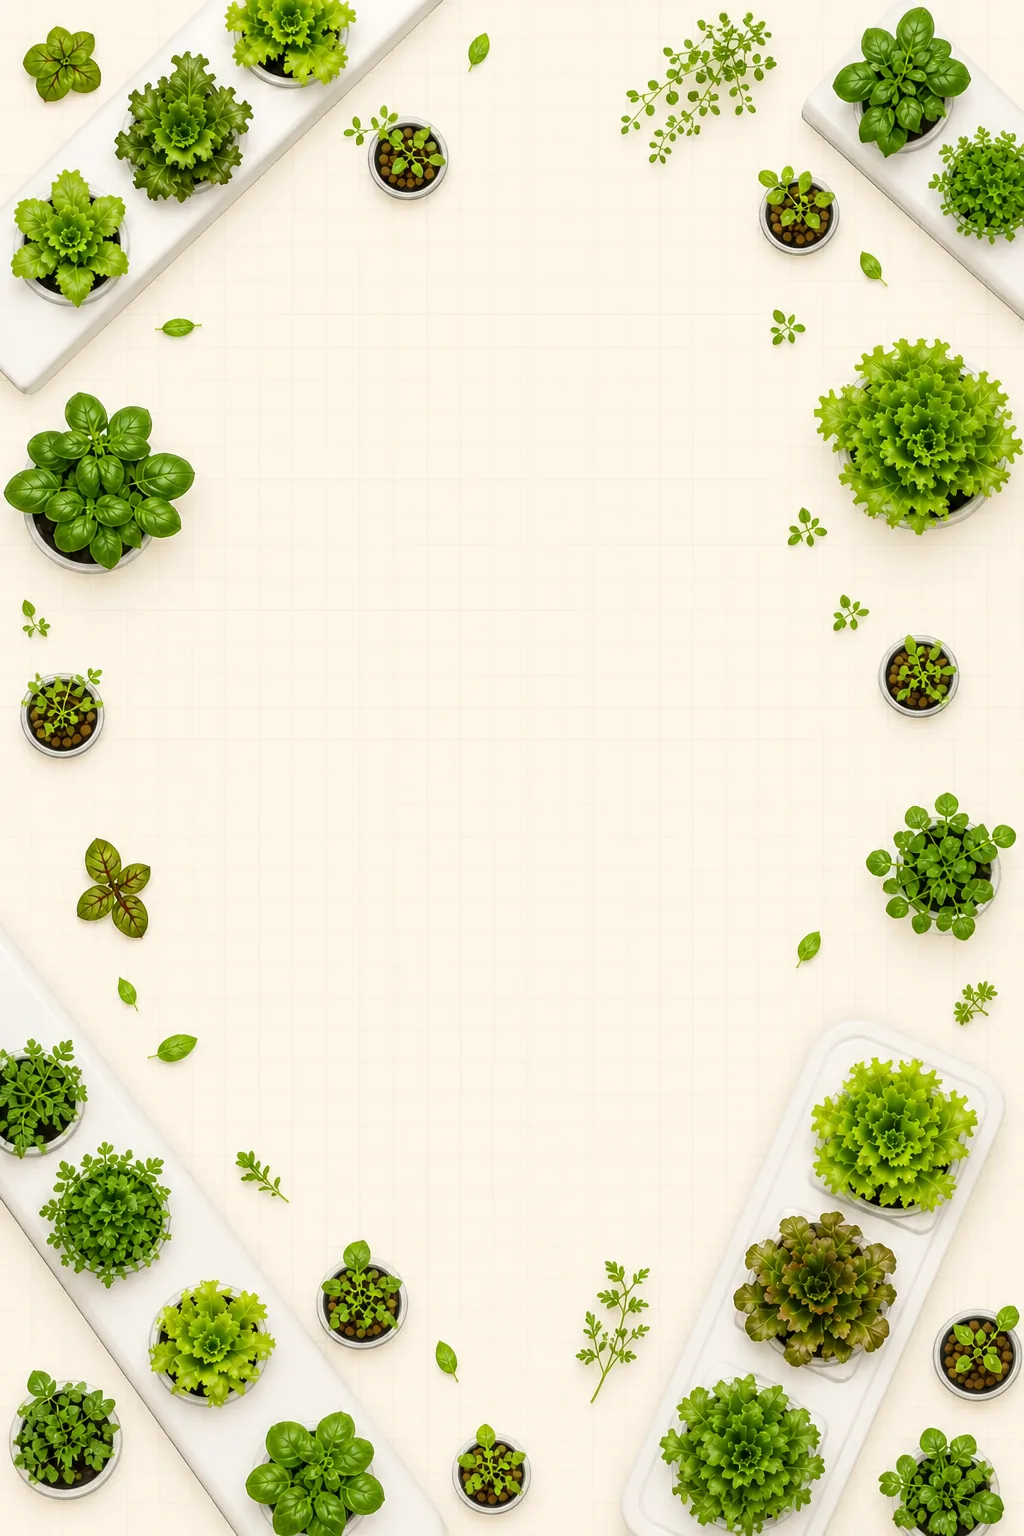
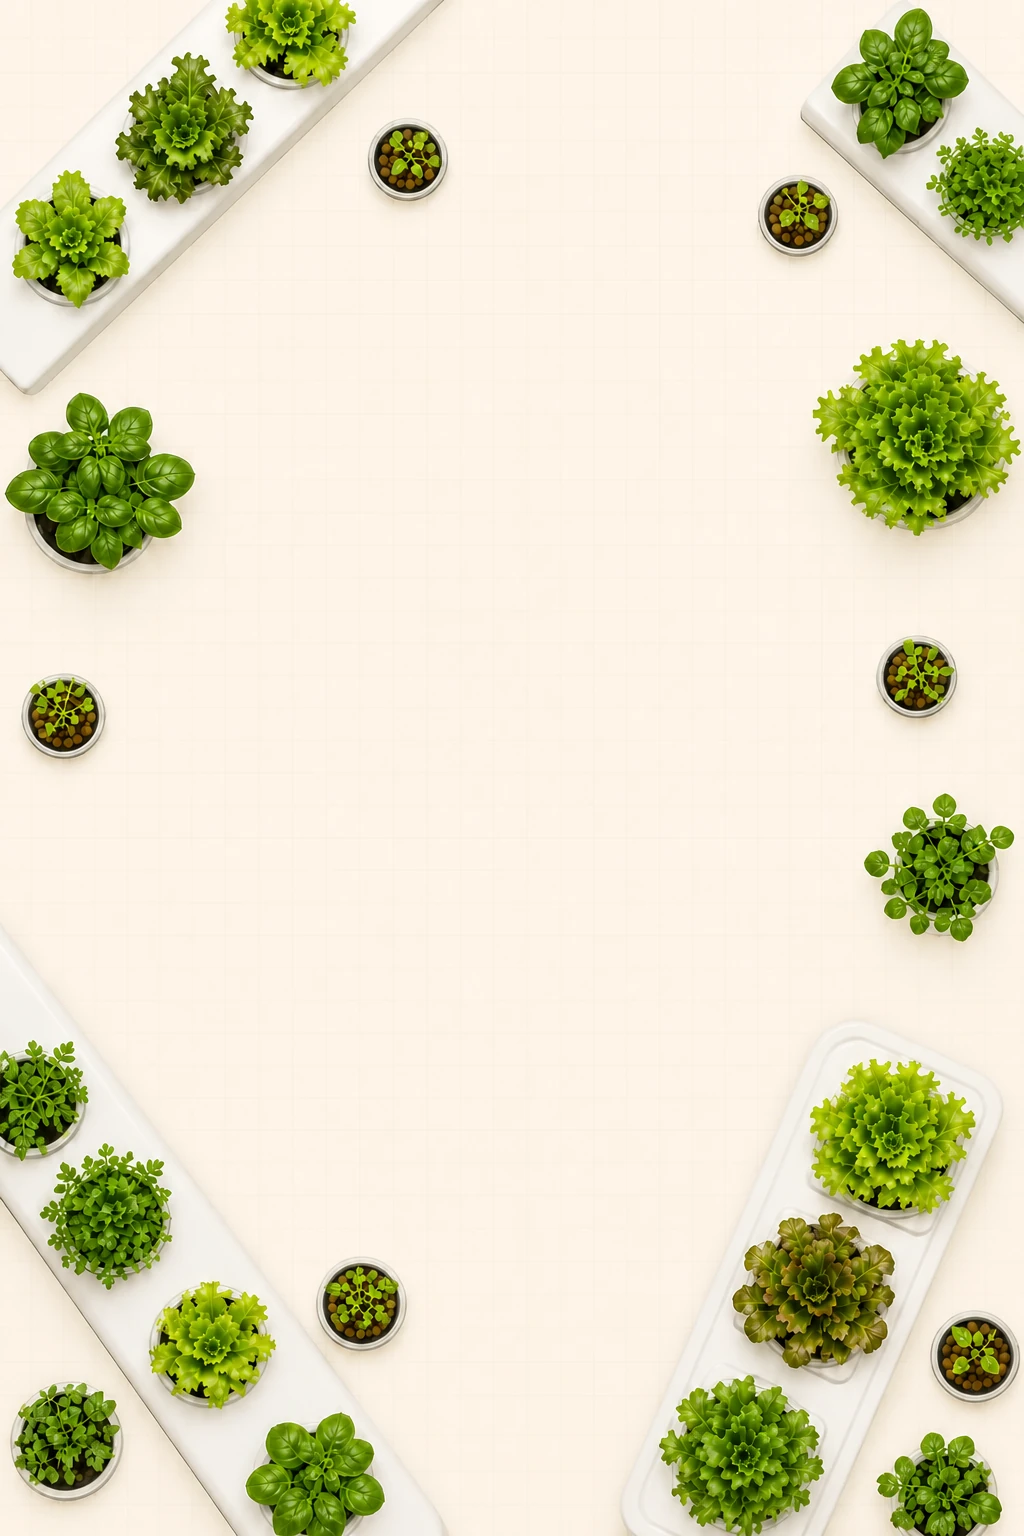
Refine quiz backgrounds and shopping lists

diff --git a/quiz.html b/quiz.html
@@ -108,6 +108,14 @@ body{font-family:system-ui,sans-serif;background:#f5f2ea;color:#1a2a16;min-heigh
 .shop-item-content{flex:1}
 .shop-item.checked .shop-item-content{text-decoration:line-through;opacity:0.5}
 .shop-item a{color:#1e3a22;text-decoration:underline}
+.shop-item-need{font-size:12px;font-weight:700;color:#1e3a22;line-height:1.4}
+.shop-item-suggestion{font-size:11px;color:#777;line-height:1.45;margin-top:2px}
+.shop-item-suggestion-label{color:#999}
+.shop-sections{display:grid;gap:10px;margin-top:8px}
+.shop-section{background:rgba(255,255,255,.72);border:1px solid #e4ddcd;border-radius:9px;padding:10px 12px}
+.shop-section-title{font-size:13px;font-weight:800;color:#1e3a22;margin-bottom:1px}
+.shop-section-note{font-size:10px;color:#888;line-height:1.45;margin-bottom:5px}
+.shop-section .shop-list{margin-top:0}
 .shop-total{display:flex;justify-content:space-between;gap:16px;margin-top:10px;padding-top:10px;border-top:2px solid #ddd8cc;font-size:13px;font-weight:800;color:#1e3a22}
 .shop-total-note{font-size:10px;color:#888;margin-top:4px;line-height:1.4}
 .primary-why{font-size:12px;color:#888;font-style:italic;line-height:1.6;padding-top:10px;border-top:1px solid #edf2e8}
@@ -145,14 +153,14 @@ body{font-family:system-ui,sans-serif;background:#f5f2ea;color:#1a2a16;min-heigh
   .result-screen{padding:20px 12px}
 }
 .quiz-page-main{display:flex;flex-direction:column;background:#f7f4ee;position:relative;overflow:hidden;isolation:isolate}
-.quiz-growth-bg{position:absolute;inset:0;z-index:0;pointer-events:none;background:linear-gradient(rgba(247,244,238,.14),rgba(247,244,238,.14)),url('images/backgrounds/quiz-growth/stage-1.webp') center/cover no-repeat;opacity:1;transition:opacity .28s ease}
+.quiz-growth-bg{position:absolute;inset:0;z-index:0;pointer-events:none;background:linear-gradient(rgba(247,244,238,.14),rgba(247,244,238,.14)),url('images/backgrounds/quiz-growth/stage-1.webp?v=clean-20260806') center/cover no-repeat;opacity:1;transition:opacity .28s ease}
 .screen,.result-screen{position:relative;z-index:1}
 @media(prefers-reduced-motion:reduce){.quiz-growth-bg{transition:none}}
 .nav-quiz-link[aria-current="page"]{background:var(--green-ghost);color:var(--green-deep)}
 @media(max-width:760px){
   .quiz-page-main{min-height:auto}
   .quiz-growth-bg{
-    background-image:linear-gradient(rgba(247,244,238,.14),rgba(247,244,238,.14)),url('images/backgrounds/quiz-growth/mobile/stage-1.webp');
+    background-image:linear-gradient(rgba(247,244,238,.14),rgba(247,244,238,.14)),url('images/backgrounds/quiz-growth/mobile/stage-1.webp?v=clean-20260806');
     background-size:cover;
     background-position:center top;
     background-repeat:no-repeat;
@@ -264,6 +272,8 @@ body{background:#f7f7f5}
 .btn-row{display:flex;align-items:center;gap:8px}
 @media(min-width:1025px){
   .screen{padding-top:calc(56px + 2cm)}
+  .screen > .q-sub{min-height:48px}
+  #screen-6 > .q-sub,#screen-7 > .q-sub{margin-bottom:63px}
 }
 @media(max-width:700px){
   .quiz-page-main{min-height:calc(100dvh - 148px);margin-top:0}
@@ -695,7 +705,7 @@ const RECS = {
       tagline: 'Recirculating deep water culture, serious volume',
       price: '$249 - $330',
       grows: 'Herbs, greens, chillies, cucumber, cherry tomatoes',
-      shop: '<a href="https://www.vevor.com.au/dwc-hydroponic-system-c_10208/vevor-rdwc-hydroponics-system-recirculating-deep-water-culture-4-buckets-20l-p_010917500216">VEVOR RDWC 4-bucket system</a> ($249) - <a href="https://www.amazon.com.au/Hydroponic-Nutrients-Plant-Grow-Bloom/dp/B0CX4MHXDM/">Nutrients A+B</a> ($34.50) - <a href="https://franshydroponics.com.au/products/professors-hydro-clay-balls-10l-bag?variant=44760106696904">Clay pebbles</a> ($22) - <a href="https://bruceshark.com/en-au/products/3-in-1-digital-ph-tds-temp-waterproof-water-quality-meter-tester-test-pen-tool?variant=42881541275802">pH/TDS tester</a> ($36.55) - <a href="https://growkings.com.au/products/flairform-ph-up-down-calibration-kit-250ml?variant=42321736892469">pH Up/Down</a> ($36.95) - <a href="https://www.woolworths.com.au/shop/productdetails/1127763065">Rockwool cubes - Woolworths</a> ($49.47) - <a href="https://growkings.com.au/products/hydro-bitz-measuring-syringe-20ml?variant=43252743962677">Syringe</a> ($6.20) - <a href="https://www.theseedcollection.com.au/vegetable">Seeds</a> - <a href="https://spiderfarmer.com.au/products/se3000-full-spectrum-led-grow-light/">LED grow light SE3000</a> ($419.99 [LIGHT]) - <a href="https://www.bigw.com.au/product/oznala-digital-timer-switch-socket-electric-programmable-power-240v-au-plug-clock/p/9901205333">Timer</a> ($19.99)',
+      shop: '<a href="https://www.vevor.com.au/dwc-hydroponic-system-c_10208/vevor-rdwc-hydroponics-system-recirculating-deep-water-culture-4-buckets-20l-p_010917500216">VEVOR RDWC 4-bucket system</a> ($249) - <a href="https://www.amazon.com.au/Hydroponic-Nutrients-Plant-Grow-Bloom/dp/B0CX4MHXDM/">Nutrients A+B</a> ($34.50) - <a href="https://franshydroponics.com.au/products/professors-hydro-clay-balls-10l-bag?variant=44760106696904">Clay pebbles</a> ($22) - <a href="https://bruceshark.com/en-au/products/3-in-1-digital-ph-tds-temp-waterproof-water-quality-meter-tester-test-pen-tool?variant=42881541275802">pH/TDS tester</a> ($36.55) - <a href="https://growkings.com.au/products/flairform-ph-up-down-calibration-kit-250ml?variant=42321736892469">pH Up/Down</a> ($36.95) - <a href="https://www.woolworths.com.au/shop/productdetails/1127763065">Rockwool cubes from Woolworths</a> ($49.47) - <a href="https://growkings.com.au/products/hydro-bitz-measuring-syringe-20ml?variant=43252743962677">Syringe</a> ($6.20 optional) - <a href="https://www.theseedcollection.com.au/vegetable">Seeds</a> - <a href="https://spiderfarmer.com.au/products/se3000-full-spectrum-led-grow-light/">LED grow light SE3000</a> ($419.99 [LIGHT]) - <a href="https://www.bigw.com.au/product/oznala-digital-timer-switch-socket-electric-programmable-power-240v-au-plug-clock/p/9901205333">Timer</a> ($19.99 [LIGHT])',
       why: 'Four recirculating buckets sharing one reservoir - the setup serious home growers use. Multiple plants, maximum output, and shared nutrients mean less work per plant.',
     },
   },
@@ -926,22 +936,22 @@ function checkEmail() {
 }
 
 const GROWTH_STAGE_IMAGES = [
-  'images/backgrounds/quiz-growth/stage-1.webp',
-  'images/backgrounds/quiz-growth/stage-2.webp',
-  'images/backgrounds/quiz-growth/stage-3.webp',
-  'images/backgrounds/quiz-growth/stage-4.webp',
-  'images/backgrounds/quiz-growth/stage-5.webp',
-  'images/backgrounds/quiz-growth/stage-6.webp',
-  'images/backgrounds/quiz-growth/stage-7.webp'
+  'images/backgrounds/quiz-growth/stage-1.webp?v=clean-20260806',
+  'images/backgrounds/quiz-growth/stage-2.webp?v=clean-20260806',
+  'images/backgrounds/quiz-growth/stage-3.webp?v=clean-20260806',
+  'images/backgrounds/quiz-growth/stage-4.webp?v=clean-20260806',
+  'images/backgrounds/quiz-growth/stage-5.webp?v=clean-20260806',
+  'images/backgrounds/quiz-growth/stage-6.webp?v=clean-20260806',
+  'images/backgrounds/quiz-growth/stage-7.webp?v=clean-20260806'
 ];
 const MOBILE_GROWTH_STAGE_IMAGES = [
-  'images/backgrounds/quiz-growth/mobile/stage-1.webp',
-  'images/backgrounds/quiz-growth/mobile/stage-2.webp',
-  'images/backgrounds/quiz-growth/mobile/stage-3.webp',
-  'images/backgrounds/quiz-growth/mobile/stage-4.webp',
-  'images/backgrounds/quiz-growth/mobile/stage-5.webp',
-  'images/backgrounds/quiz-growth/mobile/stage-6.webp',
-  'images/backgrounds/quiz-growth/mobile/stage-7.webp'
+  'images/backgrounds/quiz-growth/mobile/stage-1.webp?v=clean-20260806',
+  'images/backgrounds/quiz-growth/mobile/stage-2.webp?v=clean-20260806',
+  'images/backgrounds/quiz-growth/mobile/stage-3.webp?v=clean-20260806',
+  'images/backgrounds/quiz-growth/mobile/stage-4.webp?v=clean-20260806',
+  'images/backgrounds/quiz-growth/mobile/stage-5.webp?v=clean-20260806',
+  'images/backgrounds/quiz-growth/mobile/stage-6.webp?v=clean-20260806',
+  'images/backgrounds/quiz-growth/mobile/stage-7.webp?v=clean-20260806'
 ];
 const mobileGrowthQuery = window.matchMedia('(max-width:760px)');
 let growthStageTimer;
@@ -1173,7 +1183,13 @@ function showResult() {
 }
 
 function splitShopItems(shop) {
-  const raw = shop.split(' - ');
+  const protectedSeparator = '\uE000';
+  const protectedShop = shop.replace(/<a\b[^>]*>[\s\S]*?<\/a>/gi, function(link) {
+    return link.split(' - ').join(protectedSeparator);
+  });
+  const raw = protectedShop.split(' - ').map(function(item) {
+    return item.split(protectedSeparator).join(' - ');
+  });
   const out = []; let buf = '';
   for (let k = 0; k < raw.length; k++) {
     buf = buf ? buf + ' - ' + raw[k] : raw[k];
@@ -1197,6 +1213,66 @@ function shopItemState(item) {
 
 function cleanShopItem(item) {
   return item.replace(/\s*\[LIGHT\]/, needsGrowLight() ? '' : ' (only needed indoors)');
+}
+
+function getShopItemNeedLabel(item, index) {
+  if (/Heirloom Basin/i.test(item)) return 'Growing basins';
+  if (/Growing trays/i.test(item)) return 'Growing trays';
+  if (/Reservoir container/i.test(item)) return 'Water reservoir';
+  if (index === 0 || /^\s*(?:Outdoor|Indoor):/i.test(item)) return 'Grow system';
+  if (/LED grow lights?/i.test(item)) return 'Grow light';
+  if (/Powerboard/i.test(item)) return 'Powerboard';
+  if (/Timer/i.test(item)) return /\[LIGHT\]/.test(item) ? 'Light timer' : 'Timer';
+  if (/Nutrients?/i.test(item)) return 'Hydroponic nutrients';
+  if (/pH Up\/Down/i.test(item)) return 'pH adjustment solution';
+  if (/(?:pH|TDS|EC).*?(?:tester|test kit)/i.test(item)) return 'Water testing meter';
+  if (/Syringe/i.test(item)) return 'Measuring syringe';
+  if (/Easy plug|Rockwool/i.test(item)) return 'Seed-starting plugs';
+  if (/Clay pebbles|Sponge|Coco coir|growing medium/i.test(item)) return 'Growing medium';
+  if (/Seeds?/i.test(item)) return 'Seeds';
+  if (/Spray bottle/i.test(item)) return 'Spray bottle';
+  if (/Trimmers?/i.test(item)) return 'Harvesting scissors';
+  return 'Growing supplies';
+}
+
+function renderShopListItem(item, index, needLabel) {
+  const linkedItem = cleanShopItem(item).replace(/<a /g, '<a target="_blank" rel="noopener noreferrer" ');
+  const itemContent = needLabel
+    ? '<div class="shop-item-need">' + needLabel + '</div><div class="shop-item-suggestion"><span class="shop-item-suggestion-label">Suggested product:</span> ' + linkedItem + '</div>'
+    : linkedItem;
+  return '<li class="shop-item"><input type="checkbox" aria-label="Mark ' + (needLabel || 'shopping item ' + (index + 1)) + ' complete" onchange="this.parentElement.classList.toggle(\'checked\', this.checked)"><div class="shop-item-content">' + itemContent + '</div></li>';
+}
+
+function classifyShopItem(item, index) {
+  if (/optional/i.test(item) || /Trimmers?/i.test(item)) return 'optional';
+  if (/\[LIGHT\]/.test(item) || /LED grow lights?|Powerboard/i.test(item)) return 'indoors';
+  if (index === 0 || /^\s*(?:Outdoor|Indoor):/i.test(item) || /Heirloom Basin|Growing trays|Reservoir container/i.test(item)) return 'system';
+  if (/Seeds?|Easy plug|Clay pebbles|Rockwool|Sponge|Coco coir|Spray bottle/i.test(item)) return 'start';
+  return 'health';
+}
+
+function buildShoppingSections(shopItems, needLabels) {
+  const sections = [
+    { key: 'system', title: 'Your grow system', note: 'The main setup everything else supports.', items: [] },
+    { key: 'start', title: 'Everything needed to start growing', note: 'The planting supplies that hold your seeds and support the roots.', items: [] },
+    { key: 'health', title: 'Keep your plants healthy', note: 'Use these to feed the plants and keep the water balanced.', items: [] },
+    { key: 'indoors', title: 'Only needed indoors', note: 'Skip these when your setup receives enough natural sunlight.', items: [] },
+    { key: 'optional', title: 'Optional extras', note: 'Helpful for convenience, but not required to begin.', items: [] }
+  ];
+
+  shopItems.forEach(function(item, index) {
+    const key = classifyShopItem(item, index);
+    sections.find(function(section) { return section.key === key; }).items.push({ item: item, index: index });
+  });
+
+  return '<div class="shop-sections">' + sections.filter(function(section) {
+    return section.items.length > 0;
+  }).map(function(section) {
+    return '<section class="shop-section"><div class="shop-section-title">' + section.title + '</div>' +
+      '<div class="shop-section-note">' + section.note + '</div><ul class="shop-list">' +
+      section.items.map(function(entry) { return renderShopListItem(entry.item, entry.index, needLabels && needLabels[entry.index]); }).join('') +
+      '</ul></section>';
+  }).join('') + '</div>';
 }
 
 function getShoppingTotal(rec) {
@@ -1248,13 +1324,10 @@ function renderRecommendation(sys, size, flags) {
     notIdealEl.style.display = 'none';
   }
 
-  const shopItems = splitShopItems(rec.shop).map(cleanShopItem);
-  const shopHTML = '<strong>Shopping list:</strong><ul class="shop-list">' +
-    shopItems.map(function(item, index) {
-      const linkedItem = item.replace(/<a /g, '<a target="_blank" rel="noopener noreferrer" ');
-      return '<li class="shop-item"><input type="checkbox" aria-label="Mark shopping item ' + (index + 1) + ' complete" onchange="this.parentElement.classList.toggle(\'checked\', this.checked)"><div class="shop-item-content">' + linkedItem + '</div></li>';
-    }).join('') +
-    '</ul>' +
+  const shopItems = splitShopItems(rec.shop);
+  const needLabels = shopItems.map(getShopItemNeedLabel);
+  const shoppingListHTML = buildShoppingSections(shopItems, needLabels);
+  const shopHTML = '<strong>Shopping list:</strong>' + shoppingListHTML +
     '<div class="shop-total"><span>Estimated total (priced essentials)</span><span>' + getShoppingTotal(rec) + '</span></div>' +
     '<div class="shop-total-note">Optional and unpriced items are not included.</div>';
   document.getElementById('r-shop').innerHTML = shopHTML;
